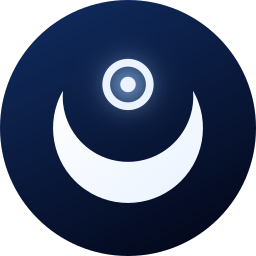
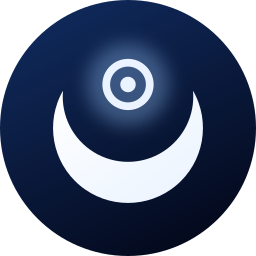
Spread the full moon's glow around the outside of its ring

diff --git a/tools/make_art.py b/tools/make_art.py
@@ -28,11 +28,16 @@ SHINE = ('<linearGradient id="shine" x1="0" y1="0" x2="1" y2="1">'
 
 
 def glow(color, opacity):
-    # bell-shaped falloff so the halo melts into the background instead of ending in a visible edge
-    stops = "".join(f'<stop offset="{t / 10}" stop-color="{color}" stop-opacity="{opacity * math.exp(-(t / 10 * 2.4) ** 2):.4f}"/>'
-                    for t in range(11))
+    # full strength out to the full moon's ring (r ~11 of 26), then a smooth fade so the halo surrounds the ring
+    def strength(t):
+        if t <= 0.42:
+            return 1.0
+        u = (t - 0.42) / 0.58
+        return (1 - u * u * (3 - 2 * u)) ** 1.6
+    stops = "".join(f'<stop offset="{t / 20}" stop-color="{color}" stop-opacity="{opacity * strength(t / 20):.4f}"/>'
+                    for t in range(21))
     return (f'<defs><radialGradient id="glow">{stops}</radialGradient>{SHINE}</defs>'
-            '<circle cx="50" cy="42" r="24" fill="url(#glow)"/>')
+            '<circle cx="50" cy="42" r="26" fill="url(#glow)"/>')
 
 
 def inner(svg_file):
@@ -47,7 +52,7 @@ WORD_BOX, WORD = inner("selene-wordmark.svg")
 WORD_W, WORD_H = (float(v) for v in WORD_BOX.split()[2:])
 
 
-def mark(cx, cy, size, color, opacity=1.0, shine=False, glow_color="#9CCBFF", glow_opacity=0.55):
+def mark(cx, cy, size, color, opacity=1.0, shine=False, glow_color="#9CCBFF", glow_opacity=0.32):
     body = glow(glow_color, glow_opacity) + MARK
     if shine:
         body = body.replace('id="crescent" fill="currentColor"', 'id="crescent" fill="url(#shine)"')
@@ -102,7 +107,7 @@ def lockup(background, ink, shine):
     w, h = 1200, 800
     body = (f'<rect width="{w}" height="{h}" fill="{background}"/>'
             + (mark(w / 2, 300, 380, ink, shine=True) if shine
-               else mark(w / 2, 300, 380, ink, glow_color="#4A78C8", glow_opacity=0.4))
+               else mark(w / 2, 300, 380, ink, glow_color="#4A78C8", glow_opacity=0.22))
             + wordmark(w / 2, 560, 640, ink))
     return doc(w, h, body)
 
